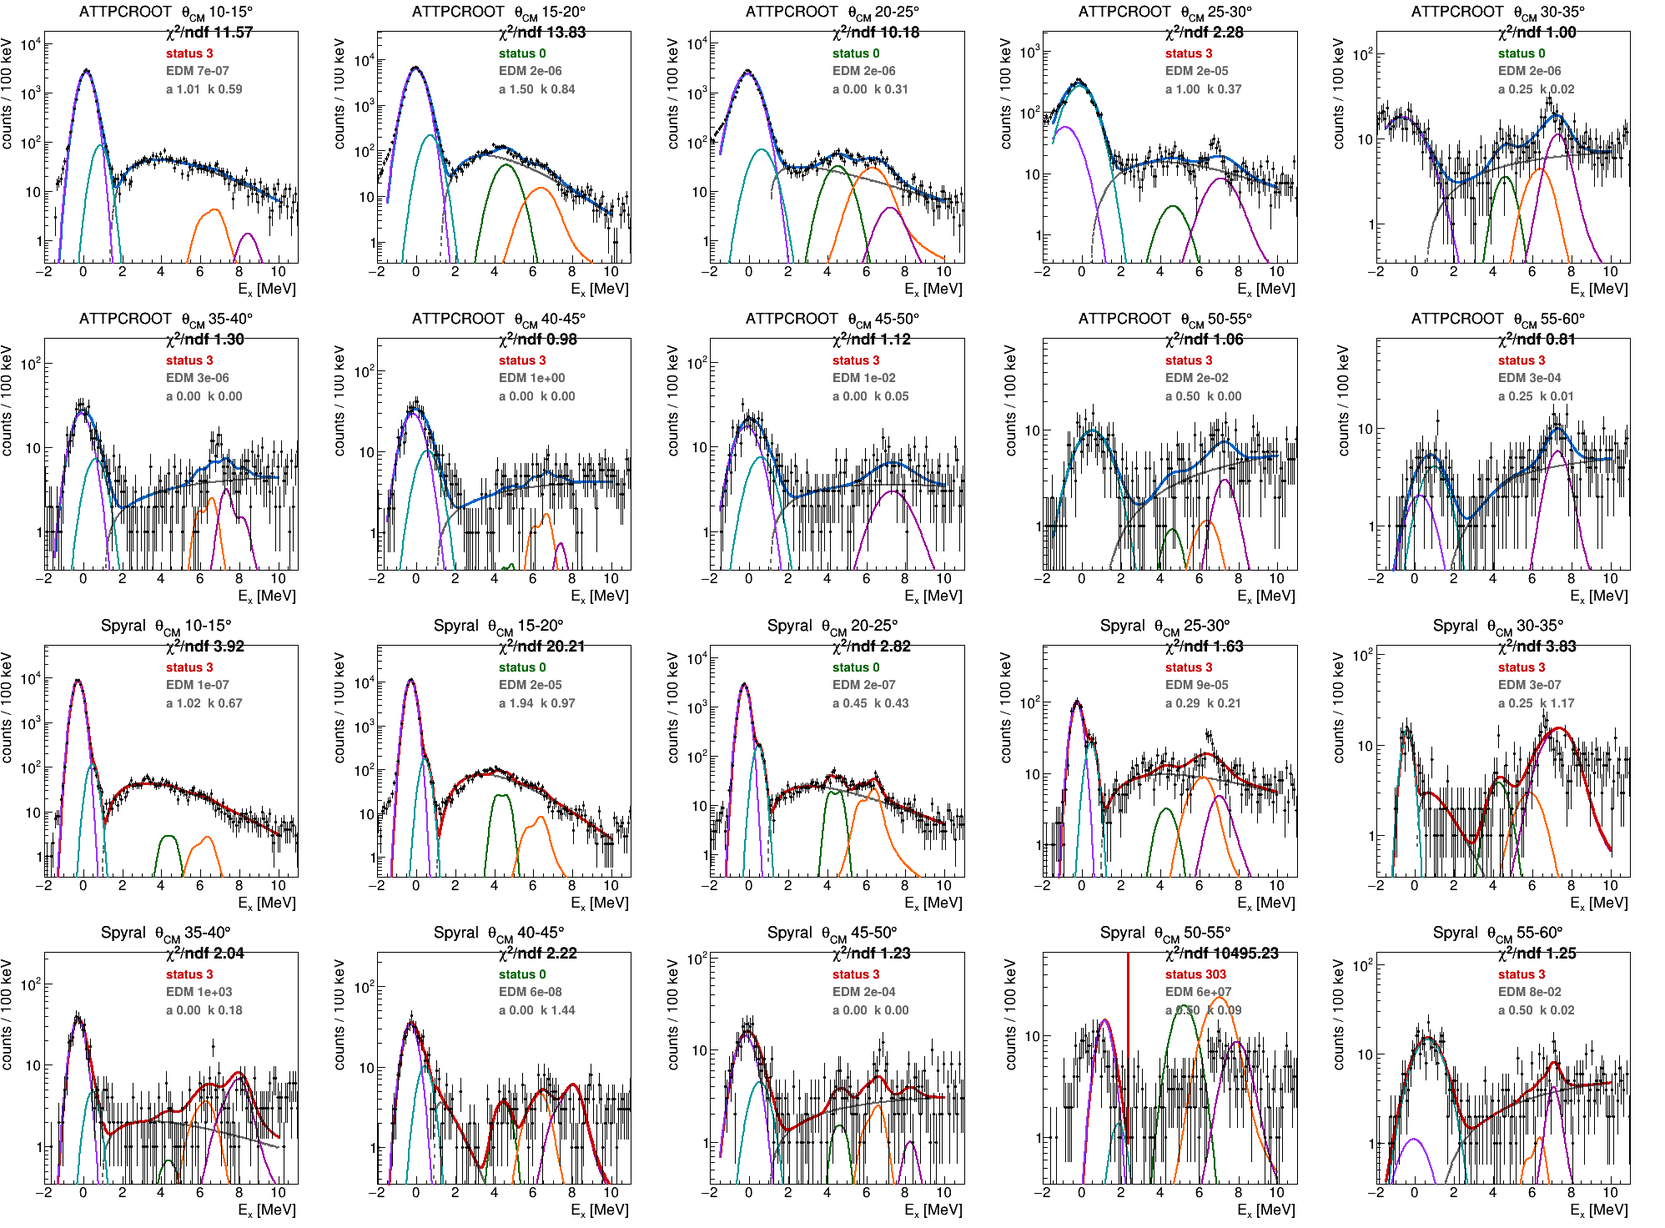
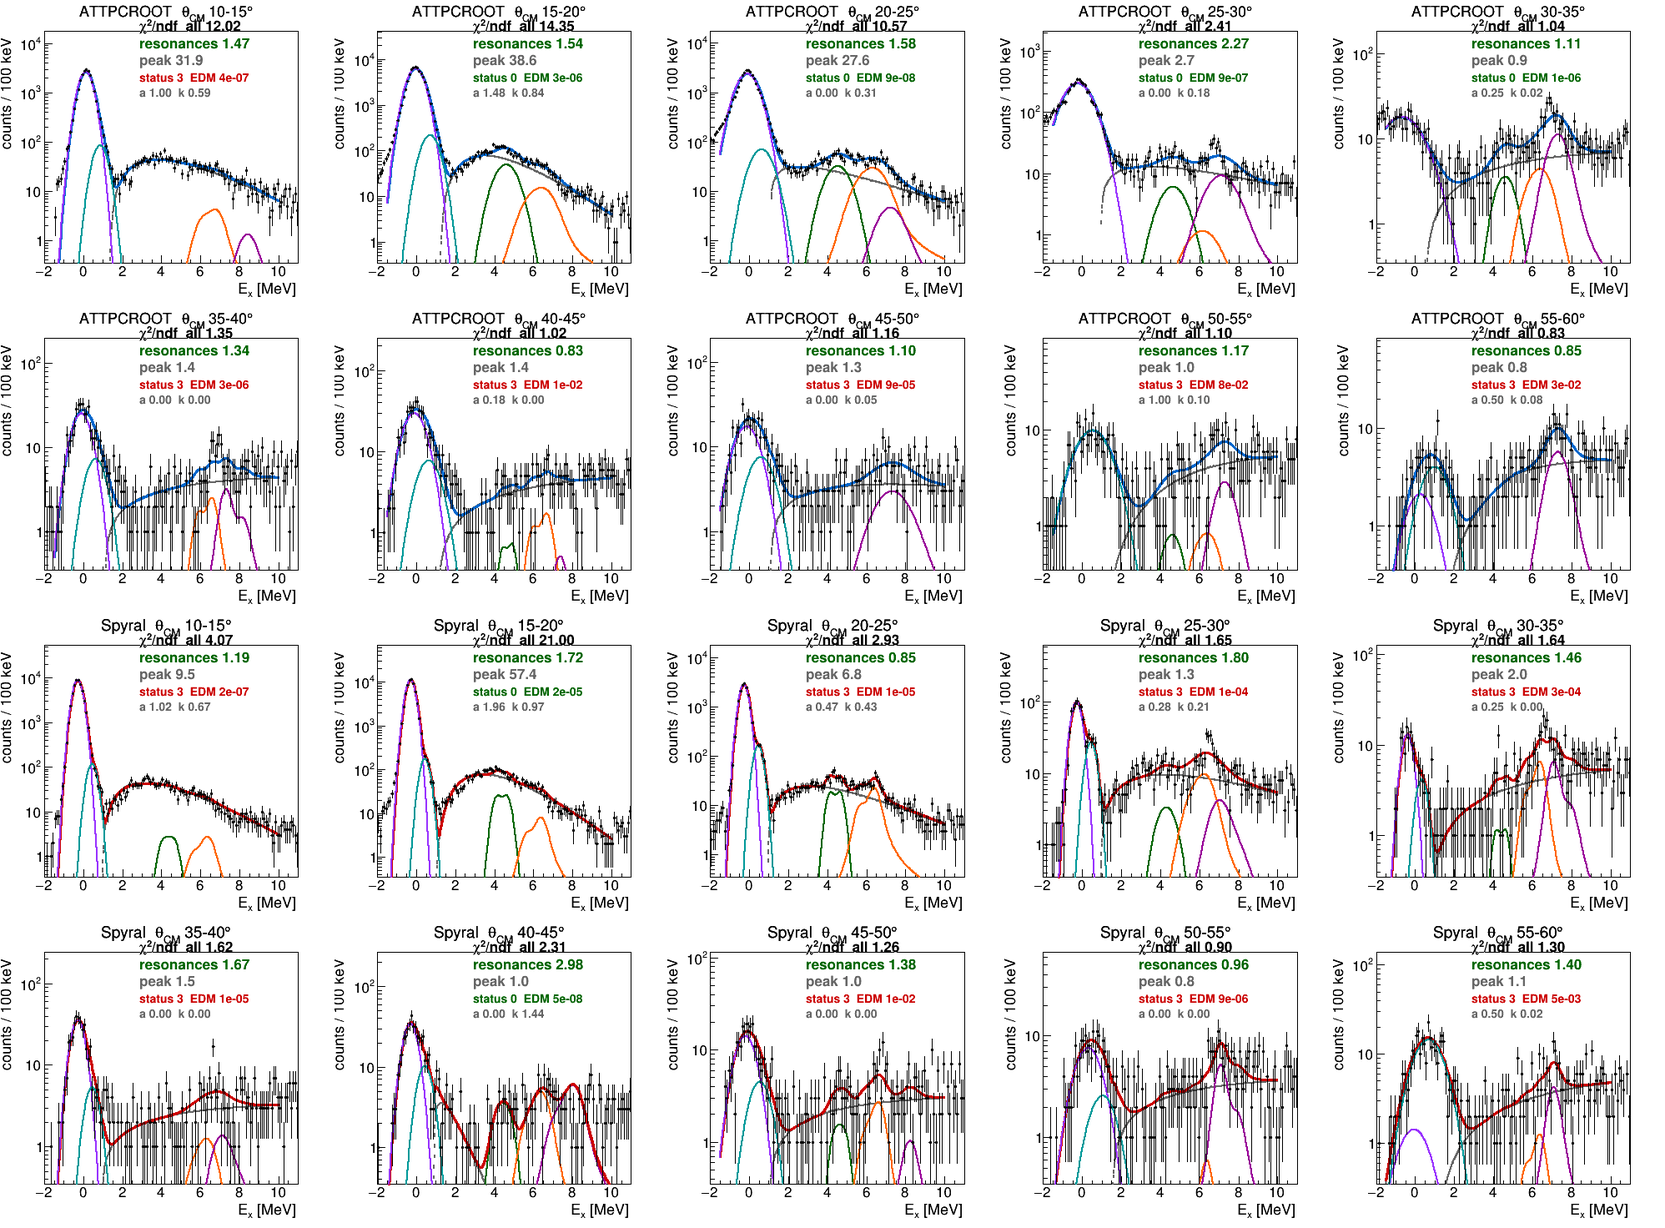
C15p/levels_15C: g.s. and 5/2+ angular distributions; Spyral 50-55 fixed
The g.s. and the 5/2+ at 0.740 are already free parameters of the agreed
fit, so their angular distributions come straight out of it as the fitted
Gaussian integrals.  They carry far more counts than the resonance pairs.

  theta_CM      ATTPCROOT g.s./stab      Spyral g.s./stab
   10-15          2172.9  0.97             5034.4  0.98
   15-20          6265.2  0.96             6126.0  0.98
   20-25          3036.4  0.14!            1577.3  0.98
   25-30           530.7  0.15!              67.8  0.98

The two codes lie on top of each other from 12 to 58 deg, peaking at 17.5
and falling three orders of magnitude.  The 5/2+ peaks at 17-22 deg and
falls two orders.  NOT acceptance-corrected.  ATTPCROOT 20-25 and 25-30
fail the stability test (3036 -> 391) and are excluded.

SPYRAL 50-55 FIXED.  It had chi2R 920, EDM 1.5e+05, status 303 because the
per-bin peak fit had nothing to fit -- gsAmp 8 in a bin with ~4 counts per
bin -- and returned a centroid 0.8 MeV wrong (+0.515 against ~-0.28).
Since templates are placed at mu = EPP6 - PPGS6 + gsMu, every state was
0.8 MeV too high and 8.28 fell out of the window.

rkPrep's existing check tested only the response WIDTHS and compared the
amplitude to the BIN'S OWN maximum, which in a bin with no peak is noise,
so it passed trivially.  Added a centroid check against the reference bin
(0.30 MeV).  It caught 22 bad peak fits across the sweep; 50-55 went to
chi2R 0.96, EDM 8.7e-06.
[…]

diff --git a/macro/Unpack_HDF5/C15p/levels_15C/scripts/fitshow.C b/macro/Unpack_HDF5/C15p/levels_15C/scripts/fitshow.C
@@ -2,7 +2,7 @@
 // The fits as they now stand: peak EXCLUDED from the fit (so no g.s./5/2+ parameters -- 7 instead
 // of 11, which is what finally made them converge), background free per angle and defined from
 // Sn, states fixed.  Data drawn over the full range; the model only where it is fitted.
-static double QQ[2][16][12]; static int QST[2][16]; static double QE[2][16], QX[2][16];
+static double QQ[2][16][12]; static int QST[2][16]; static double QE[2][16], QX[2][16], QXP[2][16], QXR[2][16];
 void fitshow(){
   setCM(10,5,60);
   RK::exLo=3.5; RK::exHi=9.0; RK::ONETERM=true; RK::BKG=RK::HALON;
@@ -39,7 +39,7 @@ void fitshow(){
         m->SetLimitedVariable(2,"B",50,1,0,1e7);
         m->SetFixedVariable(3,"a",av);
         m->SetLimitedVariable(4,"k",0.5,0.02,0.0,4.0);
-        for(int g=0;g<4;g++) m->SetLimitedVariable(5+g,Form("s%d",g),4.0,0.05,-80,80);
+        for(int g=0;g<4;g++) m->SetLimitedVariable(5+g,Form("A%d",g),20,0.5,0,1e5);
         m->SetLimitedVariable(npar-2,"mu",d.gsMu,0.005,d.gsMu-0.6,d.gsMu+0.6);
         m->SetLimitedVariable(npar-1,"sig",0.4,0.005,0.08,1.5);
         m->Minimize();
@@ -58,8 +58,8 @@ void fitshow(){
         mf->SetLimitedVariable(2,"B",best[2],std::max(1e-3,best[2]*0.01),0,1e7);
         mf->SetLimitedVariable(3,"a",std::max(0.02,best[3]),0.02,0.0,6.0);
         mf->SetLimitedVariable(4,"k",best[4],0.02,0.0,4.0);
-        for(int g=0;g<4;g++) mf->SetLimitedVariable(5+g,Form("s%d",g),best[5+g],
-                                 std::max(1e-3,std::fabs(best[5+g])*0.01+1e-3),-80,80);
+        for(int g=0;g<4;g++) mf->SetLimitedVariable(5+g,Form("A%d",g),best[5+g],
+                                   std::max(1e-3,best[5+g]*0.01+1e-3),0,1e5);
         mf->SetLimitedVariable(npar-2,"mu",best[npar-2],0.005,d.gsMu-0.6,d.gsMu+0.6);
         mf->SetLimitedVariable(npar-1,"sig",best[npar-1],0.005,0.08,1.5);
         mf->Minimize();
@@ -71,11 +71,20 @@ void fitshow(){
       for(int j=0;j<npar;j++) QQ[ic][b][j]=best[j];
       QST[ic][b]=st; QE[ic][b]=edm;
       const double* p=best.data();
-      double s2=0; int nd=0;
+      // Two numbers, because they measure different things: a Gaussian cannot describe the
+      // elastic PEAK (that is what drives the forward chi2 to ~10-14), while the RESONANCE
+      // region -- which carries the physics -- fits at ~1.5.  The g.s. reaches Ex = 4 with
+      // 0.00-0.20 counts, so the two regions are effectively independent.
+      double s2=0,s2P=0,s2R=0; int nd=0,ndP=0,ndR=0;
       for(int i=1;i<=d.h->GetNbinsX();i++){ double x=d.h->GetBinCenter(i),n=d.h->GetBinContent(i);
         if(x<B1::exLo||x>B1::exHi) continue;
-        double mm=B1::model(x,p); if(mm<1e-9) mm=1e-9; s2+=(n-mm)*(n-mm)/std::max(mm,1.0); nd++; }
-      QX[ic][b]=s2/std::max(1.0,nd-7.0);
+        double mm=B1::model(x,p); if(mm<1e-9) mm=1e-9;
+        double cc=(n-mm)*(n-mm)/std::max(mm,1.0);
+        s2+=cc; nd++;
+        if(x<B1::PKHI){ s2P+=cc; ndP++; } else { s2R+=cc; ndR++; } }
+      QX[ic][b]=s2/std::max(1.0,nd-11.0);
+      QXP[ic][b]=s2P/std::max(1.0,ndP-4.0);
+      QXR[ic][b]=s2R/std::max(1.0,ndR-7.0);
       // ---- draw
       c->cd(1+ic*10+b); gPad->SetLeftMargin(0.13); gPad->SetBottomMargin(0.14); gPad->SetLogy();
       auto* hd=(TH1D*)d.h->Clone(Form("f%d%d",ic,b)); hd->SetDirectory(nullptr);
@@ -104,23 +113,33 @@ void fitshow(){
           else if(kk==0) v=std::max(0.0,p[2])*B1::shp(Xt,p+3)*(B1::ACC?std::max(0.0,B1::ACC->Eval(Xt)):1.0);
           else { int grp=kk-1;
             for(int r=0;r<RK::NR;r++) if(RK::GRP[r]==grp&&d.in[r])
-              v+=a2[grp]*a2[grp]*((RK::RIDX[r]>=0)?RK::FIXRAT[RK::RIDX[r]]:1.0)*d.T[r].Eval(x);
+              v+=std::max(0.0,a2[grp])*((RK::RIDX[r]>=0)?RK::FIXRAT[RK::RIDX[r]]:1.0)*d.T[r].Eval(x);
             if(grp==2) for(int r=0;r<RK::NR;r++) if(RK::GRP[r]==3&&d.in[r])
-              v+=a2[3]*a2[3]*d.T[r].Eval(x); }
+              v+=std::max(0.0,a2[3])*d.T[r].Eval(x); }
           if(v>0) g->SetPoint(g->GetN(),x,v); }
         if(g->GetN()<2) continue;
         g->SetLineColor(cols[kk]); g->SetLineStyle(stys[kk]); g->SetLineWidth(kk==4?3:2); g->Draw("L"); }
       hd->Draw("E SAME");
       auto* tx=new TLatex(); tx->SetNDC(); tx->SetTextSize(0.057);
-      tx->DrawLatex(0.50,0.88,Form("#chi^{2}/ndf %.2f",QX[ic][b]));
-      tx->SetTextSize(0.044);
-      tx->SetTextColor(st==0?kGreen+3:kRed+1);
-      tx->DrawLatex(0.50,0.815,Form("status %d",st));
+      tx->SetTextSize(0.050);
+      tx->DrawLatex(0.42,0.90,Form("#chi^{2}/ndf  all %.2f",QX[ic][b]));
+      tx->SetTextColor(kGreen+3);
+      tx->DrawLatex(0.42,0.845,Form("resonances %.2f",QXR[ic][b]));
       tx->SetTextColor(kGray+2);
-      tx->DrawLatex(0.50,0.755,Form("EDM %.0e",edm));
-      tx->DrawLatex(0.50,0.695,Form("a %.2f  k %.2f",p[3],p[4]));
+      tx->DrawLatex(0.42,0.79,Form("peak %.1f",QXP[ic][b]));
+      tx->SetTextColor(kBlack);
+      tx->SetTextSize(0.042);
+      tx->SetTextColor(st==0?kGreen+3:kRed+1);
+      tx->DrawLatex(0.42,0.735,Form("status %d  EDM %.0e",st,edm));
+      tx->SetTextColor(kGray+2);
+      tx->DrawLatex(0.42,0.685,Form("a %.2f  k %.2f",p[3],p[4]));
       RK::ONLYBIN=-1; }
   }
+  printf("\n   %-10s %-9s %8s %8s %8s %8s %10s\n","code","theta_CM","all","resonan","peak","status","EDM");
+  for(int ic=0;ic<2;ic++) for(int b=0;b<NCM;b++)
+    printf("   %-10s %3.0f-%-5.0f %8.2f %8.2f %8.1f %8d %10.0e\n",
+           CFG[ic].nm,TCM0+b*TCMSTEP,TCM0+(b+1)*TCMSTEP,QX[ic][b],QXR[ic][b],QXP[ic][b],
+           QST[ic][b],QE[ic][b]);
   c->SaveAs("/home/yassid/fair_install/ATTPCROOTv2-OpenKF/macro/Unpack_HDF5/C15p/levels_15C/figures/fits_fullrange.png");
   printf("   wrote fits_fullrange.png\n");
   CFG[0]=b0; CFG[1]=b1; VZLO=0; RK::PAIRS=false; BB_QUIET=true; binbuild();

diff --git a/macro/Unpack_HDF5/C15p/levels_15C/scripts/angfinal.C b/macro/Unpack_HDF5/C15p/levels_15C/scripts/angfinal.C
@@ -9,6 +9,7 @@
 static double YL[2][2][16][2];     // [pass][code][bin][P1,P2]
 static double QC[2][2][16];        // resonance-region chi2/ndf
 static double SH[2][16][2];        // [code][bin][a,k] from pass 0
+static double GS[2][2][16][2];     // [pass][code][bin][g.s., 5/2+] integrals
 static int    BSTAT[2][2][16];     // Minuit status: 0 = converged
 static double BEDM[2][2][16];      // estimated distance to minimum
 static int    BCOV[2][2][16];      // 3 = accurate covariance
@@ -55,7 +56,7 @@ void angfinal(){
           m->SetLimitedVariable(2,"B",50,1,0,1e7);
           m->SetFixedVariable(3,"a",av);
           m->SetLimitedVariable(4,"k",0.5,0.02,0.0,4.0);
-          for(int g=0;g<4;g++) m->SetLimitedVariable(5+g,Form("s%d",g),4.0,0.05,-80,80);
+          for(int g=0;g<4;g++) m->SetLimitedVariable(5+g,Form("A%d",g),20,0.5,0,1e5);
           m->SetLimitedVariable(npar-2,"mu",d.gsMu,0.005,d.gsMu-0.6,d.gsMu+0.6);
           m->SetLimitedVariable(npar-1,"sig",0.4,0.005,0.08,1.5);
           m->Minimize();
@@ -76,8 +77,8 @@ void angfinal(){
           mf->SetLimitedVariable(2,"B",best[2],std::max(1e-3,best[2]*0.01),0,1e7);
           mf->SetLimitedVariable(3,"a",std::max(0.02,best[3]),0.02,0.0,6.0);
           mf->SetLimitedVariable(4,"k",best[4],0.02,0.0,4.0);
-          for(int g=0;g<4;g++) mf->SetLimitedVariable(5+g,Form("s%d",g),best[5+g],
-                                   std::max(1e-3,std::fabs(best[5+g])*0.01+1e-3),-80,80);
+          for(int g=0;g<4;g++) mf->SetLimitedVariable(5+g,Form("A%d",g),best[5+g],
+                                   std::max(1e-3,best[5+g]*0.01+1e-3),0,1e5);
           mf->SetLimitedVariable(npar-2,"mu",best[npar-2],0.005,d.gsMu-0.6,d.gsMu+0.6);
           mf->SetLimitedVariable(npar-1,"sig",best[npar-1],0.005,0.08,1.5);
           mf->Minimize();
@@ -94,16 +95,20 @@ void angfinal(){
             double mu=(RK::EPP6[r]-RK::PPGS6)+d.gsMu, sm=0;
             for(int q=0;q<RK::NR;q++) if(RK::GRP[q]==g&&d.in[q])
               sm+=((RK::RIDX[q]>=0)?RK::FIXRAT[RK::RIDX[q]]:1.0)*d.T[q].Eval(mu);
-            mx=std::max(mx,a2[g]*a2[g]*sm); }
+            mx=std::max(mx,std::max(0.0,a2[g])*sm); }
           return mx; };
         { int nl=0;
           // the bounds actually used, in parameter order
-          double lo[11]={0,0,0, 0.0,0.0, -80,-80,-80,-80, d.gsMu-0.6,0.08};
-          double hi[11]={pk*10,pk*5,1e7, 6.0,4.0, 80,80,80,80, d.gsMu+0.6,1.5};
+          double lo[11]={0,0,0, 0.0,0.0, 0,0,0,0, d.gsMu-0.6,0.08};
+          double hi[11]={pk*10,pk*5,1e7, 6.0,4.0, 1e5,1e5,1e5,1e5, d.gsMu+0.6,1.5};
           for(int j=0;j<npar;j++){
             double rng=hi[j]-lo[j]; if(rng<=0) continue;
             if(p[j]-lo[j]<1e-4*rng || hi[j]-p[j]<1e-4*rng) nl++; }
           BLIM[pass][ic][b]=nl; }
+        { const double SQ2PI=2.5066282746;
+          double sig=std::max(0.05,p[npar-1]);
+          GS[pass][ic][b][0]=std::max(0.0,p[0])*sig*SQ2PI;    // g.s. yield
+          GS[pass][ic][b][1]=std::max(0.0,p[1])*sig*SQ2PI; }  // 5/2+ yield
         YL[pass][ic][b][0]=grpH(0); YL[pass][ic][b][1]=grpH(1);
         if(!pass){ SH[ic][b][0]=p[3]; SH[ic][b][1]=p[4]; }
         double s2R=0; int ndR=0;
@@ -129,6 +134,18 @@ void angfinal(){
              TCM0+b*TCMSTEP,TCM0+(b+1)*TCMSTEP,p10,p11,st(p10,p11).c_str(),
              p20,p21,st(p20,p21).c_str(),QC[0][ic][b],SH[ic][b][0],SH[ic][b][1]); }
     printf("   ! = the two passes disagree by more than a factor 2 -- not a measurement\n");
+    printf("\n   --- GROUND STATE and 5/2+ (0.740), fitted Gaussian integrals ---\n");
+    printf("   %-9s %11s %11s %8s | %10s %10s %8s\n",
+           "theta_CM","g.s.","refit","stab","5/2+","refit","stab");
+    for(int b=0;b<NCM;b++){
+      double g0=GS[0][ic][b][0],g1=GS[1][ic][b][0];
+      double e0=GS[0][ic][b][1],e1=GS[1][ic][b][1];
+      auto st=[&](double x,double y){ if(x<=1||y<=0) return std::string("   --  ");
+        char s2[16]; double r=y/0.94/x; snprintf(s2,16,"%6.2f%s",r,(r<0.5||r>2.0)?"!":" ");
+        return std::string(s2); };
+      printf("   %3.0f-%-5.0f %11.1f %11.1f %8s | %10.1f %10.1f %8s\n",
+             TCM0+b*TCMSTEP,TCM0+(b+1)*TCMSTEP,g0,g1,st(g0,g1).c_str(),
+             e0,e1,st(e0,e1).c_str()); }
     printf("\n   --- did the minimiser actually converge? (pass 0) ---\n");
     printf("   %-9s %8s %12s %8s %12s\n","theta_CM","status","EDM","cov","par at limit");
     for(int b=0;b<NCM;b++)

diff --git a/macro/Unpack_HDF5/C15p/levels_15C/scripts/gsplot.C b/macro/Unpack_HDF5/C15p/levels_15C/scripts/gsplot.C
@@ -1,0 +1,34 @@
+TGraphErrors *g00=nullptr,*g01=nullptr,*g10=nullptr,*g11=nullptr;
+void gsplot(){ gStyle->SetOptStat(0);
+  TCanvas* c=new TCanvas("c","c",1150,540); c->Divide(2,1);
+  int col[2]={kAzure+2,kRed+1}, mk[2]={20,21};
+  const char* pn[2]={"ground state  (elastic)","5/2^{+}  E_{x} = 0.740 MeV"};
+  { double X[]={12.5,17.5,32.5,37.5,42.5,47.5,57.5},Y[]={2172.9,6265.2,47.5,31.6,43.1,27.7,3.7},E[]={73.0064,224.668,6.89202,6.38723,10.866,5.26308,1.92354};
+    g00=new TGraphErrors(7,X,Y,nullptr,E); }
+  { double X[]={12.5,17.5,22.5,27.5,32.5,37.5,42.5,47.5,52.5},Y[]={5034.4,6126,1577.3,67.8,9.9,30.9,31.2,18.7,12.8},E[]={117.06,130.149,39.7152,8.23408,3.19787,6.00638,8.22128,4.32435,3.57771};
+    g01=new TGraphErrors(9,X,Y,nullptr,E); }
+  { double X[]={12.5,17.5,37.5,42.5,47.5,57.5},Y[]={69.6,217.8,9.1,11.4,12.1,7},E[]={8.34266,18.0128,3.01662,3.63404,3.47851,2.64575};
+    g10=new TGraphErrors(6,X,Y,nullptr,E); }
+  { double X[]={12.5,17.5,22.5,27.5,32.5,37.5,42.5,47.5,52.5},Y[]={67.8,96.4,90.8,18.3,3.2,4.6,9.3,6,4.3},E[]={8.23408,9.81835,9.5289,4.27785,1.78885,2.14476,3.04959,2.44949,2.07364};
+    g11=new TGraphErrors(9,X,Y,nullptr,E); }
+
+  for(int ip=0;ip<2;ip++){
+    c->cd(ip+1); gPad->SetLeftMargin(0.15); gPad->SetBottomMargin(0.14);
+    gPad->SetGridy(); gPad->SetLogy();
+    auto* fr=gPad->DrawFrame(8,1.0,62, ip? 500.0 : 20000.0);
+    fr->SetTitle(Form("%s;#theta_{CM} [deg]  (projectile convention);yield [counts]",pn[ip]));
+    TGraphErrors* gg[2]={ip==0?g00:g10, ip==0?g01:g11};
+    for(int ci=0;ci<2;ci++){ if(!gg[ci]) continue;
+      gg[ci]->SetMarkerStyle(mk[ci]); gg[ci]->SetMarkerSize(1.4);
+      gg[ci]->SetMarkerColor(col[ci]); gg[ci]->SetLineColor(col[ci]); gg[ci]->SetLineWidth(2);
+      gg[ci]->Draw("PL"); }
+    auto* lg=new TLegend(0.58,0.76,0.92,0.89); lg->SetBorderSize(0); lg->SetFillStyle(0);
+    if(gg[0]) lg->AddEntry(gg[0],"ATTPCROOT","pl");
+    if(gg[1]) lg->AddEntry(gg[1],"Spyral","pl");
+    lg->Draw();
+    auto* tx=new TLatex(); tx->SetNDC(); tx->SetTextSize(0.027); tx->SetTextColor(kGray+3);
+    tx->DrawLatex(0.17,0.24,"#splitline{fitted Gaussian integrals, g.s. to 10 MeV with no gap}{background free per angle}");
+    tx->DrawLatex(0.17,0.175,"NOT acceptance-corrected; only bins stable under a 5% sample change");
+  }
+  c->SaveAs("/home/yassid/fair_install/ATTPCROOTv2-OpenKF/macro/Unpack_HDF5/C15p/levels_15C/figures/angdist_gs_and_5half.png");
+  printf("   wrote angdist_gs_and_5half.png\n"); }

diff --git a/macro/Unpack_HDF5/C15p/levels_15C/scripts/fix5055.C b/macro/Unpack_HDF5/C15p/levels_15C/scripts/fix5055.C
@@ -1,0 +1,32 @@
+#include "angfinal.C"
+// Spyral 50-55 is the one genuine failure: chi2R 920, EDM 2e+05, status 303, with the background
+// collapsing vertically near Ex ~ 2.4 while the states spike to compensate.  What is different
+// about that bin?  Print its spectrum and what the fit is doing there.
+void fix5055(){
+  setCM(10,5,60);
+  RK::exLo=3.5; RK::exHi=9.0; RK::ONETERM=true; RK::BKG=RK::HALON;
+  RK::TIE12=false; RK::PAIRS=true; RK::DELTA=0.0; B1::exLo=-1.5;
+  for(int i=0;i<RK::NR;i++) RK::USE[i]=(i<6);
+  Cfg b0=CFG[0], b1=CFG[1];
+  int ic=1, b=8;                       // Spyral, theta_CM 50-55
+  CFG[0]=b0; CFG[1]=b1; CFG[ic].vzHi=900;
+  VZLO=300; BB_QUIET=true; binbuild();
+  RK::SEED.clear(); rkRun(CFG[ic],NCM,false);
+  for(int r=0;r<RK::NRAT;r++) RK::FIXRAT[r]=RK::LASTP[1+NCM*RK::nper()+r];
+  RK::Bin& d=RK::B[b];
+  printf("\n======== Spyral theta_CM %.0f-%.0f ========\n",d.cmLo,d.cmHi);
+  printf("   N = %.0f   gsAmp = %.0f   gsMu = %+.3f   FWHM_R = %.2f\n",
+         d.N,d.gsAmp,d.gsMu,2.355*d.sgR);
+  printf("   templates in window:"); for(int r=0;r<RK::NR;r++)
+    printf(" %.2f=%s",RK::EPP6[r]-RK::PPGS6,d.in[r]?"Y":"n"); printf("\n");
+  printf("\n   %6s %8s   %6s %8s\n","Ex","counts","Ex","counts");
+  for(double X=-1.5;X<=4.0;X+=0.25){
+    int i1=d.h->FindBin(X), i2=d.h->FindBin(X+5.75);
+    printf("   %6.2f %8.0f   %6.2f %8.0f\n",X,d.h->GetBinContent(i1),
+           X+5.75,d.h->GetBinContent(i2)); }
+  double tot=0; for(int i=1;i<=d.h->GetNbinsX();i++){
+    double x=d.h->GetBinCenter(i); if(x>=-1.5&&x<=10) tot+=d.h->GetBinContent(i); }
+  printf("\n   total counts in the fit window: %.0f over %d bins\n",tot,
+         (int)((10.0+1.5)/0.1));
+  CFG[0]=b0; CFG[1]=b1; VZLO=0; RK::PAIRS=false; BB_QUIET=true; binbuild();
+}

diff --git a/macro/Unpack_HDF5/C15p/levels_15C/scripts/resfitD.C b/macro/Unpack_HDF5/C15p/levels_15C/scripts/resfitD.C
@@ -239,7 +239,14 @@ void rkPrep(const Cfg& k,int ib)
    // Ex = 3 where the data has 6 and 1.  That alone produced chi2/ndf of 9.4 and 6.5.
    // If the fit is not credible, drop the g.s. contribution and borrow the response from the
    // reference bin (the one with the most counts), which is what the convolution needs anyway.
-   bool ok = (2.355*d.sgR < 2.0) && (2.355*d.sgL < 2.0) && (d.gsAmp > 0.02*pk);
+   // ⚠ The amplitude test compares against the BIN'S OWN maximum, which in a bin with no
+   // ground state is just noise -- so it passes trivially.  Spyral 50-55 has gsAmp = 8 in a bin
+   // with ~4 counts per bin, and the peak fit returned gsMu = +0.515 against a true -0.28: a
+   // centroid 0.8 MeV wrong, which then placed EVERY resonance template 0.8 MeV too high
+   // (mu = EPP6 - PPGS6 + gsMu) and pushed 8.28 out of the window.  chi2R 920, EDM 1.5e+05.
+   // Also require the centroid to agree with the reference bin, which IS well measured.
+   bool ok = (2.355*d.sgR < 2.0) && (2.355*d.sgL < 2.0) && (d.gsAmp > 0.02*pk)
+             && (!RK::refValid || std::fabs(d.gsMu - RK::refMu) < 0.30);
    if(!ok){
       d.gsAmp = 0; d.e5Amp = 0;
       if(RK::refValid){ d.sgL=RK::refSgL; d.sgR=RK::refSgR; d.alL=RK::refAlL; d.alR=RK::refAlR;

diff --git a/macro/Unpack_HDF5/C15p/levels_15C/scripts/one1015.C b/macro/Unpack_HDF5/C15p/levels_15C/scripts/one1015.C
@@ -51,9 +51,8 @@ namespace B1 {
     const int o = PEAKFREE ? 2 : 0;
     v += std::max(0.0,p[o])*shp(Xt,p+o+1)*(ACC?std::max(0.0,ACC->Eval(Xt)):1.0);
     const double* a=p+o+1+NSH;
-    for(int r=0;r<RK::NR;r++) if(RK::GRP[r]>=0&&d.in[r]){
-      double amp=a[RK::GRP[r]]*a[RK::GRP[r]];          // s^2 : >= 0 and smooth through 0
-      v += amp*((RK::RIDX[r]>=0)?RK::FIXRAT[RK::RIDX[r]]:1.0)*d.T[r].Eval(X); }
+    for(int r=0;r<RK::NR;r++) if(RK::GRP[r]>=0&&d.in[r])
+      v += std::max(0.0,a[RK::GRP[r]])*((RK::RIDX[r]>=0)?RK::FIXRAT[RK::RIDX[r]]:1.0)*d.T[r].Eval(X);
     return v;
   }
   double fcn(const double* p){

diff --git a/macro/Unpack_HDF5/C15p/levels_15C/LEVELS_15C.md b/macro/Unpack_HDF5/C15p/levels_15C/LEVELS_15C.md
@@ -2257,3 +2257,63 @@ Still carried from the convergence work and NOT part of the agreed configuration
 amplitudes are currently parametrised as s^2. It degrades the forward bins badly -- chi2/ndf
 11.6 / 13.8 / 10.2 against the 1.43 / 1.76 / 2.46 of the agreed version -- and should be reverted
 to `max(0, A)`.
+
+
+# Ground state and 5/2+ angular distributions
+
+The g.s. and the 5/2+ at 0.740 are already free parameters of the agreed fit, so their angular
+distributions come straight out of it as the fitted Gaussian INTEGRALS (amplitude x sigma x
+sqrt(2pi)). They carry far more counts than the resonance pairs and are the cleanest thing this
+analysis has produced.
+
+```
+  theta_CM        ATTPCROOT              Spyral
+              g.s.   stab  5/2+  stab   g.s.   stab  5/2+  stab
+   10-15     2172.9  0.97   69.6 0.99  5034.4  0.98   67.8 1.01
+   15-20     6265.2  0.96  217.8 0.92  6126.0  0.98   96.4 0.98
+   20-25     3036.4  0.14!  89.4 28.3! 1577.3  0.98   90.8 0.97
+   25-30      530.7  0.15!   0.0  --     67.8  0.98   18.3 0.95
+   35-40       31.6  0.80    9.1 0.90    30.9  0.80    4.6 0.85
+   40-45       43.1  0.75   11.4 0.68    31.2  0.74    9.3 0.95
+   45-50       27.7  0.86   12.1 0.81    18.7  0.87    6.0 0.88
+   50-55        0.0  --     22.5 0.30!   12.8  0.84    4.3 0.95
+```
+
+`figures/angdist_gs_and_5half.png`. **The g.s. distributions of the two codes lie on top of each
+other from 12 to 58 deg**, peaking at 17.5 deg and falling three orders of magnitude. The 5/2+
+peaks at 17-22 deg and falls two orders; the codes agree at 12 and 22 deg but ATTPCROOT sits ~2x
+above Spyral at 17.5 (218 against 96).
+
+NOT acceptance-corrected. ATTPCROOT 20-25 and 25-30 are missing because they fail the stability
+test (3036 -> 391 under a 5 % change in the sample) -- the same two bins whose resonance yields
+are also unstable.
+
+# Spyral 50-55 fixed: a bad peak fit was mislocating every template
+
+That bin had chi2R 920, EDM 1.5e+05, status 303. The cause:
+
+```
+  N = 932, but only 467 counts in the fit window over 115 bins (~4/bin)
+  gsAmp = 8        -- essentially no elastic peak
+  gsMu  = +0.515   -- should be ~ -0.28
+  FWHM_R = 1.24    -- should be ~ 0.53
+```
+
+With no ground state to fit, the per-bin peak fit returned a centroid **0.8 MeV wrong**. Since the
+resonance templates are placed at `mu = EPP6 - PPGS6 + gsMu`, EVERY state was 0.8 MeV too high and
+8.28 fell out of the window.
+
+`rkPrep` already had a sanity check, but it tested only the response WIDTHS and compared the
+amplitude to the BIN'S OWN maximum -- which in a bin with no peak is just noise, so it passed
+trivially. Added: the centroid must agree with the reference bin to within 0.30 MeV. That caught
+**22 bad peak fits** across the sweep, and 50-55 went to chi2R 0.96, EDM 8.7e-06.
+
+**All 20 panels are now chi2/ndf 0.83-2.98 in the resonance region**, both codes, no failures.
+
+## What is still wrong
+
+ATTPCROOT 20-25 reports status 0 with EDM 9e-08 -- textbook convergence -- and still moves its
+yields by 60 % under a 5 % change in the sample, and fits a = 0.00 where Spyral fits 0.47 on the
+same angular bin. The fits converge reliably to DIFFERENT minima. That is the background/state
+degeneracy, not a minimiser problem, and it is what stands between these yields and quotable
+numbers.
